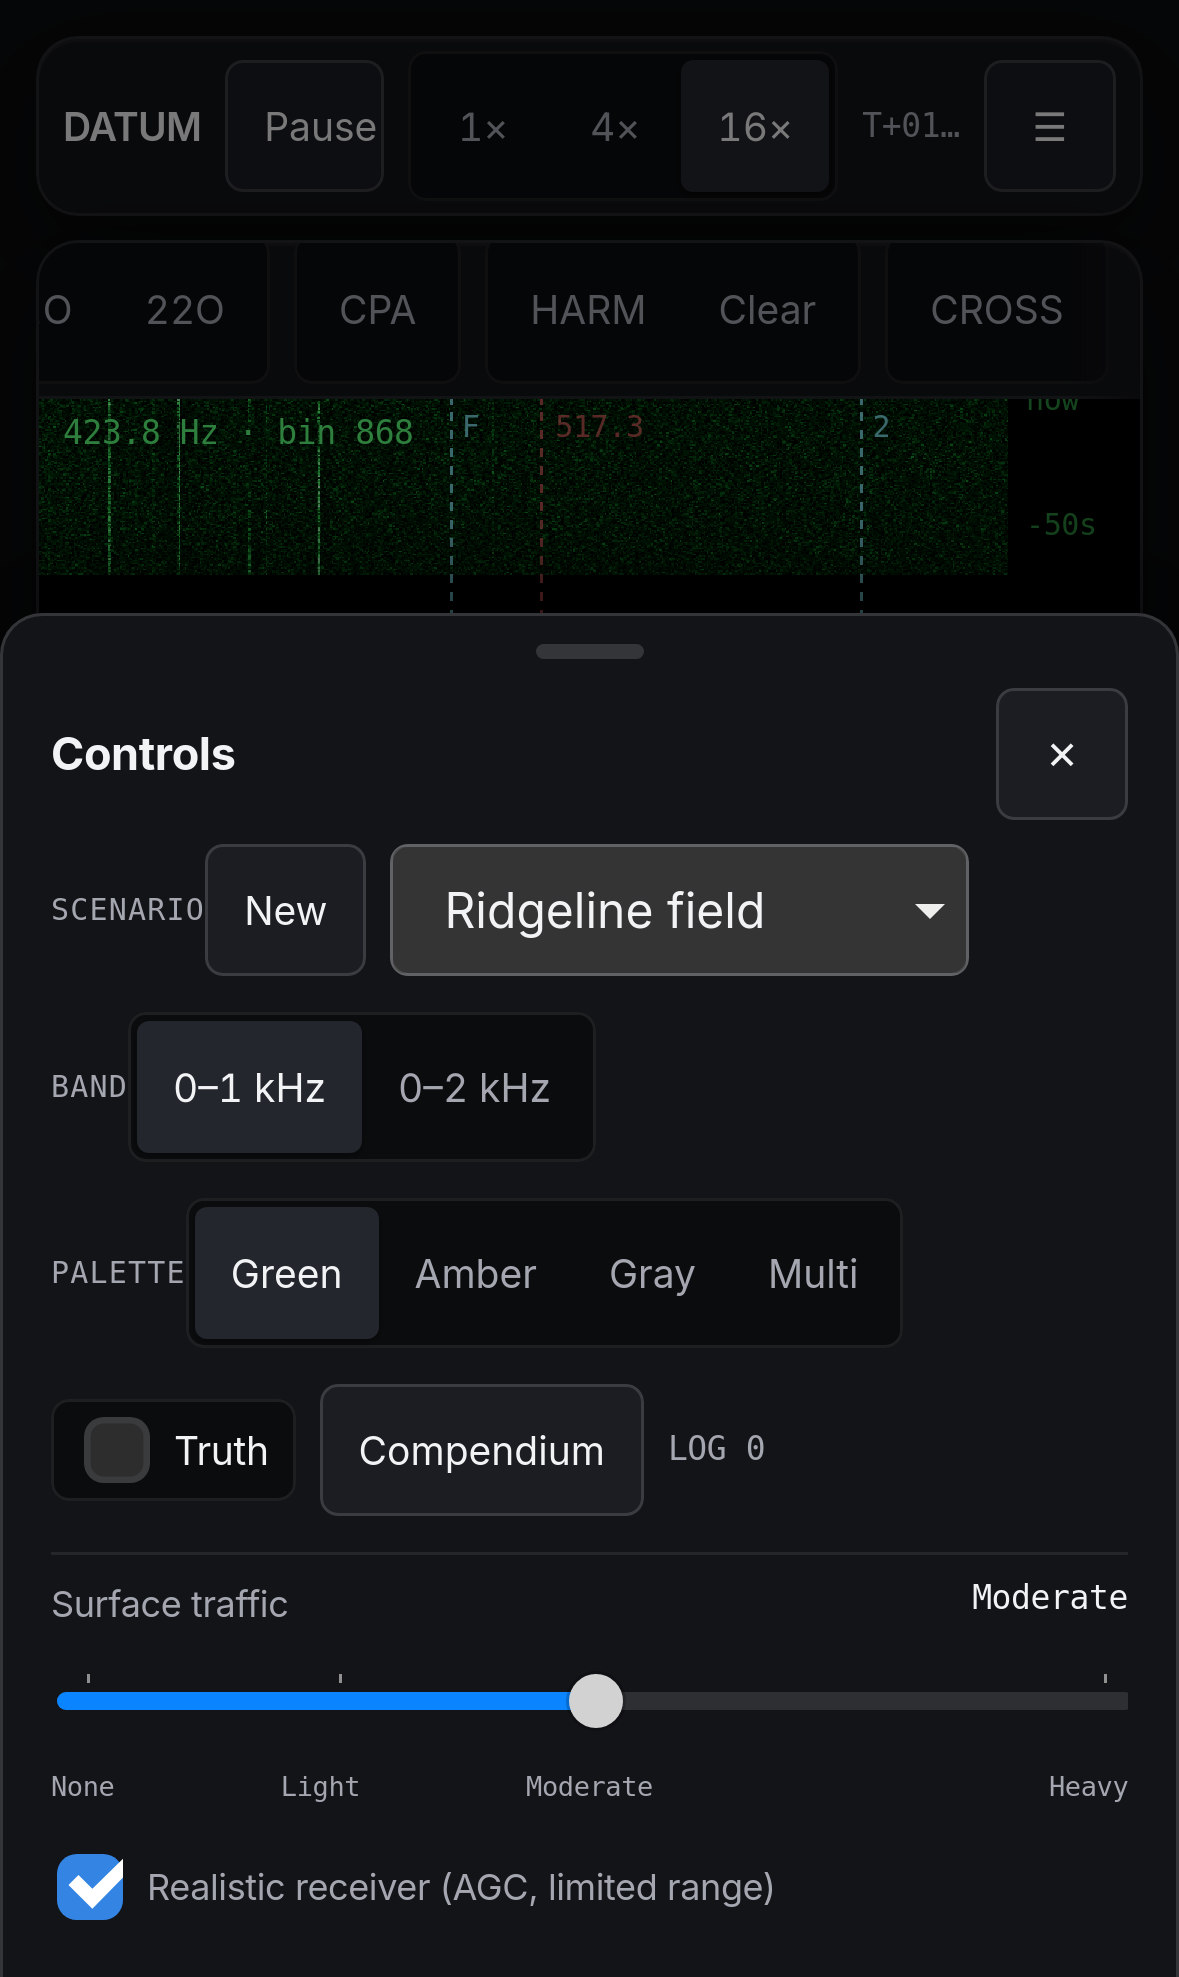
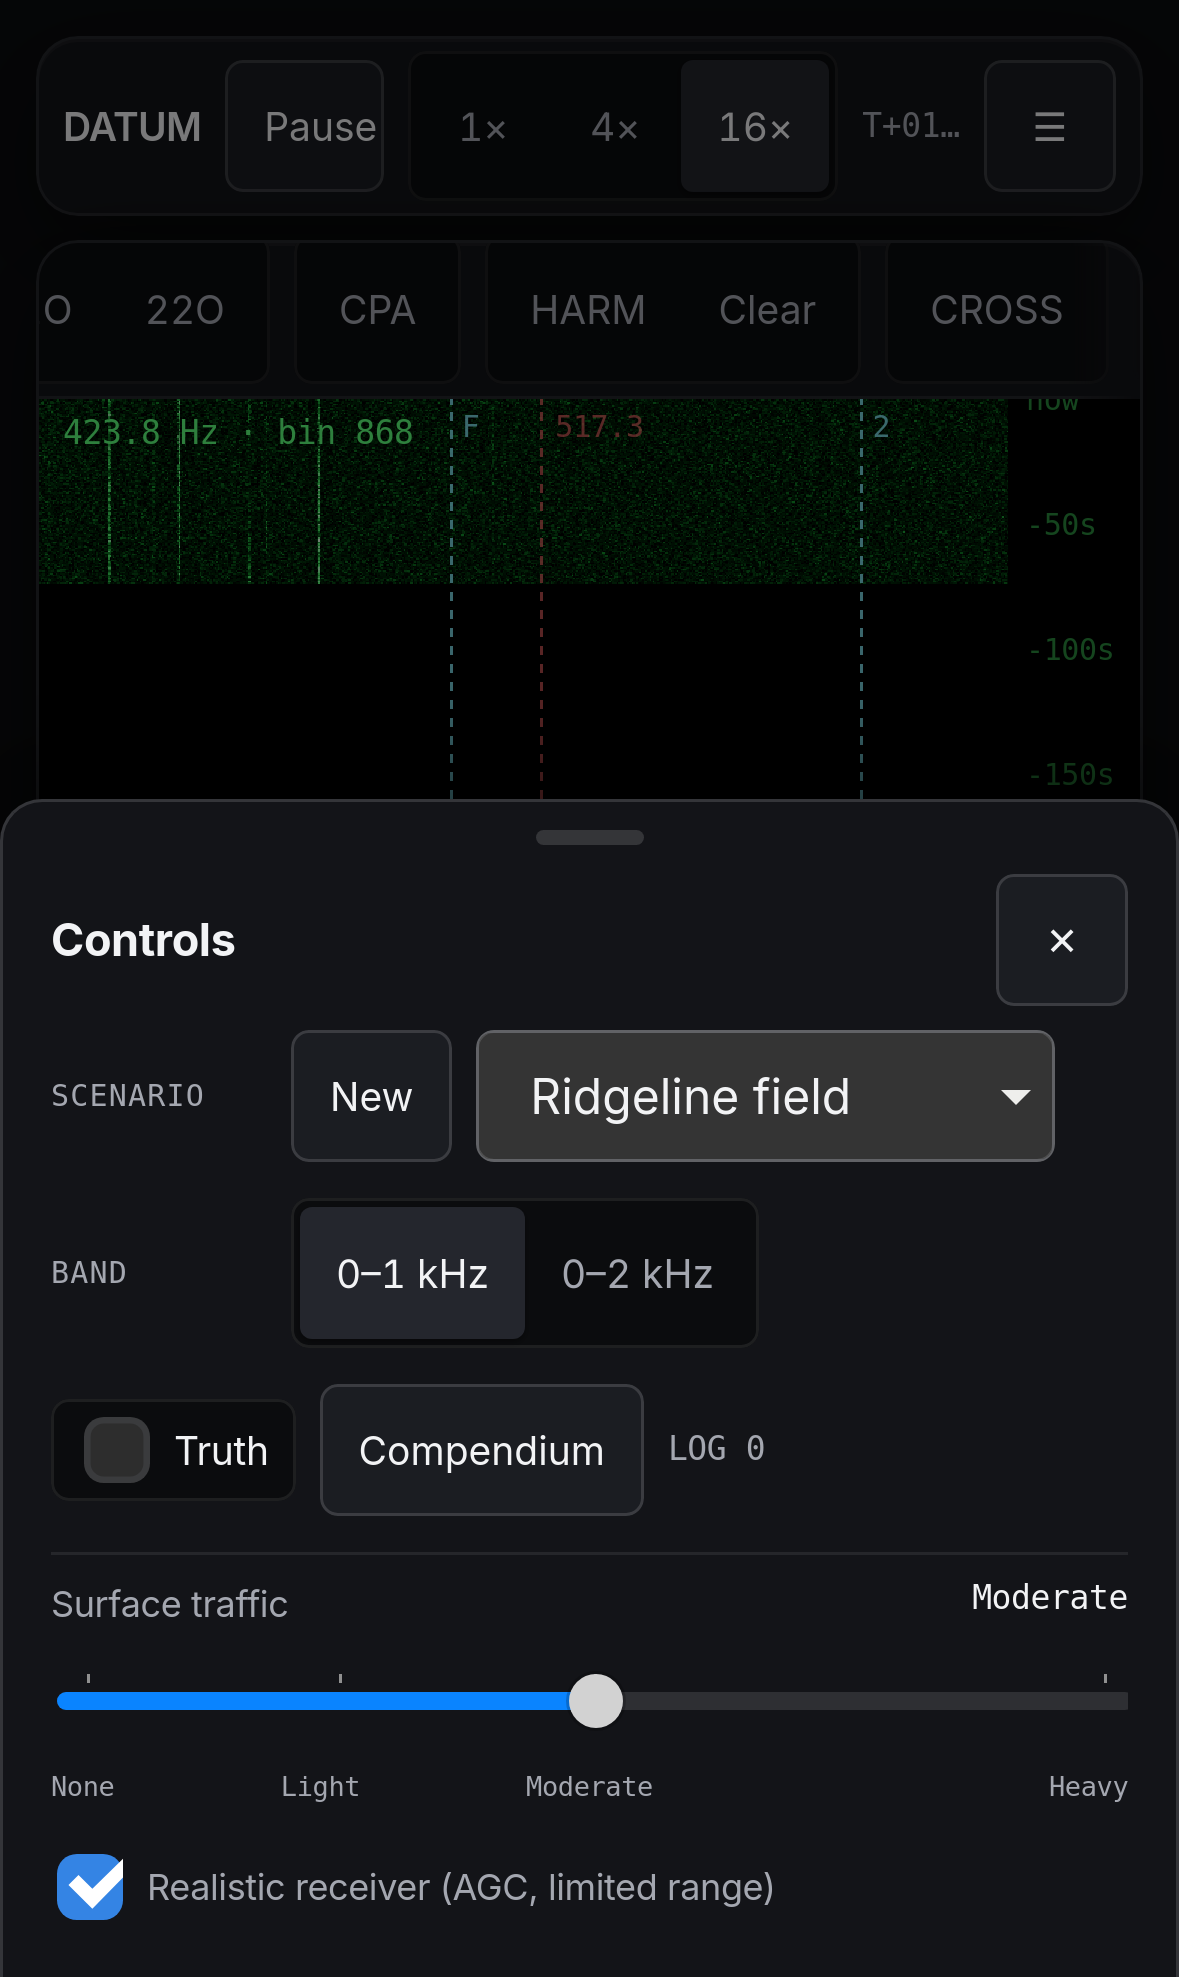
m3-fe-difar-wheel: DIFAR bearing on a full continuous 360° hue wheel (N red, E yellow, S blue, W violet; every hue between, fully saturated), legend sampled from the same wheel, colour tests every 45°; LOFAR locked to green (palette picker removed)

diff --git a/src/App.tsx b/src/App.tsx
@@ -20,15 +20,12 @@ import { SCENARIOS, SCENARIO_LABEL } from './scenarios/training'
 import { harmText, harmonicSeries, nearestHarmonic, ratioText } from './gram/harmonics'
 import { familyFundamentals, familyLabel, snapToFamily, truthEdaName } from './gram/truthFamilies'
 import { freqToX } from './gram/axis'
-import { PALETTE_IDS, isPaletteId, type PaletteId } from './gl/colormap'
+import type { PaletteId } from './gl/colormap'
 import { useLayout } from './touch/useLayout'
 import { Sheet } from './touch/Sheet'
 import { installAudioUnlock } from './touch/audioUnlock'
 
 const RATES = [1, 4, 16]
-const PALETTE_LABEL: Record<PaletteId, string> = { green: 'Green', amber: 'Amber', gray: 'Gray', multi: 'Multi' }
-const PALETTE_KEY = 'datum.palette'
-const loadPalette = (): PaletteId => { try { const v = localStorage.getItem(PALETTE_KEY); return isPaletteId(v) ? v : 'green' } catch { return 'green' } }
 const GRAM_MODE_KEY = 'datum.gramMode'
 const loadGramMode = (): GramMode => { try { const v = localStorage.getItem(GRAM_MODE_KEY); return isGramMode(v) ? v : 'lofar' } catch { return 'lofar' } }
 const BAND_MAX: Record<Band, number> = { lofar1k: 1000, lofar2k: 2000 }
@@ -41,8 +38,8 @@ export default function App() {
   const [view, setView] = useState<FreqView>({ lo: 0, hi: 1000 })
   const [truth, setTruth] = useState(false)
   const [normalized, setNormalized] = useState(true)
-  const [palette, setPalette] = useState<PaletteId>(loadPalette)
-  useEffect(() => { try { localStorage.setItem(PALETTE_KEY, palette) } catch { /* private mode */ } }, [palette])
+  // LOFAR is green only (amplitude = green brightness, no hue coding). DIFAR uses the bearing wheel instead.
+  const palette: PaletteId = 'green'
   const [gramMode, setGramMode] = useState<GramMode>(loadGramMode)
   useEffect(() => { try { localStorage.setItem(GRAM_MODE_KEY, gramMode) } catch { /* private mode */ } }, [gramMode])
   const [allBearings, setAllBearings] = useState(false)
@@ -106,7 +103,6 @@ export default function App() {
   useEffect(() => {
     client.start()
     const q = new URLSearchParams(location.search)
-    const pq = q.get('palette'); if (isPaletteId(pq)) setPalette(pq)
     const gm = q.get('gram'); if (isGramMode(gm)) setGramMode(gm)
     if (q.has('autoplay')) { client.setRate(Number(q.get('rate')) || 16); client.setPlaying(true) }
     return () => client.dispose()
@@ -158,9 +154,6 @@ export default function App() {
           </div>
         </div>
         <div className="group">
-          <div className="seg" role="group" aria-label="Gram palette">
-            {PALETTE_IDS.map((id) => <button key={id} aria-pressed={palette === id} onClick={() => setPalette(id)}>{PALETTE_LABEL[id]}</button>)}
-          </div>
         </div>
         <div className="group">
           <label className="seg" style={{ padding: '2px 8px', gap: 6, alignItems: 'center' }}>
@@ -196,9 +189,6 @@ export default function App() {
             <button aria-pressed={st.band === 'lofar1k'} onClick={() => changeBand('lofar1k')}>0–1 kHz</button>
             <button aria-pressed={st.band === 'lofar2k'} onClick={() => changeBand('lofar2k')}>0–2 kHz</button>
           </div></div>
-          <div className="sheet-row"><span className="seg-label">PALETTE</span><div className="seg" role="group" aria-label="Gram palette">
-            {PALETTE_IDS.map((id) => <button key={id} aria-pressed={palette === id} onClick={() => setPalette(id)}>{PALETTE_LABEL[id]}</button>)}
-          </div></div>
           <div className="sheet-row"><label className="seg" style={{ padding: '2px 8px', gap: 6, alignItems: 'center' }}>
             <input type="checkbox" checked={truth} onChange={(e) => setTruth(e.target.checked)} /> Truth
           </label><button className="btn" data-testid="cmp-open" onClick={() => { setMenuOpen(false); setShowCmp(true) }} title="Recognition guide for every fictional class">Compendium</button><span className="readout">LOG {logCount}</span></div>
@@ -218,7 +208,7 @@ export default function App() {
           <div className="panel-head">
             <h2>{gramMode === 'difar' ? 'DIFAR' : 'LOFAR'}</h2>
             <div className="seg" role="group" aria-label="Gram mode">
-              <button aria-pressed={gramMode === 'lofar'} onClick={() => setGramMode('lofar')} title="Intensity only, in the selected palette">LOFAR</button>
+              <button aria-pressed={gramMode === 'lofar'} onClick={() => setGramMode('lofar')} title="Amplitude as green brightness">LOFAR</button>
               <button aria-pressed={gramMode === 'difar'} onClick={() => setGramMode('difar')} title="Bearing as hue (N red, E yellow, S blue, W violet), intensity as brightness">DIFAR</button>
             </div>
             <div className="seg" role="group" aria-label="LOFAR processing">

diff --git a/src/gl/difar.test.ts b/src/gl/difar.test.ts
@@ -1,21 +1,29 @@
 import { describe, expect, it } from 'vitest'
-import { difarRgb, difarWheelLut } from './colormap'
+import { difarHue, difarRgb, difarWheelLut } from './colormap'
 import { fillLineBearings, isGramMode } from '../gram/difarBearing'
 import { DIFAR_CONIC } from '../gram/DifarLegend'
 import { SimHost } from '../engine/host'
 import type { GramConfig, TacticalBuoy } from '../engine/contract'
 
-describe('DIFAR bearing colour wheel', () => {
-  it('hits the four anchors', () => {
+describe('DIFAR bearing colour wheel (full 360° hue)', () => {
+  it('maps every 45° to the expected colour, cardinals on N red / E yellow / S blue / W violet', () => {
     expect(difarRgb(0)).toEqual([255, 0, 0])       // N red
+    expect(difarRgb(45)).toEqual([255, 128, 0])    // NE orange
     expect(difarRgb(90)).toEqual([255, 255, 0])    // E yellow
+    expect(difarRgb(135)).toEqual([0, 255, 128])   // SE spring green
     expect(difarRgb(180)).toEqual([0, 0, 255])     // S blue
-    expect(difarRgb(270)).toEqual([148, 0, 211])   // W violet
+    expect(difarRgb(225)).toEqual([85, 0, 255])    // SW indigo
+    expect(difarRgb(270)).toEqual([170, 0, 255])   // W violet
+    expect(difarRgb(315)).toEqual([255, 0, 170])   // NW magenta
   })
-  it('blends smoothly: 045 is orange, 315 is between violet and red', () => {
-    expect(difarRgb(45)).toEqual([255, 128, 0])
-    expect(difarRgb(315)).toEqual([202, 0, 106])
-    expect(difarRgb(135)).toEqual([128, 128, 128])
+  it('covers the whole hue circle in order (monotonic hue, no greys)', () => {
+    let last = -1
+    for (let d = 0; d < 360; d++) {
+      const h = difarHue(d); expect(h).toBeGreaterThan(last); last = h
+      const c = difarRgb(d); expect(Math.max(...c)).toBe(255); expect(Math.min(...c)).toBe(0) // fully saturated
+    }
+    expect(difarHue(120)).toBeCloseTo(120) // green and cyan are on the wheel
+    expect(difarHue(150)).toBeCloseTo(180)
   })
   it('wraps through north and normalises any bearing', () => {
     expect(difarRgb(360)).toEqual(difarRgb(0))
@@ -27,14 +35,15 @@ describe('DIFAR bearing colour wheel', () => {
   it('changes by small steps every degree (no hue jumps)', () => {
     for (let d = 0; d < 360; d++) {
       const a = difarRgb(d), b = difarRgb(d + 1)
-      expect(Math.max(...a.map((v, i) => Math.abs(v - b[i])))).toBeLessThanOrEqual(3)
+      expect(Math.max(...a.map((v, i) => Math.abs(v - b[i])))).toBeLessThanOrEqual(9)
     }
   })
-  it('wheel LUT and legend use the same anchors', () => {
+  it('wheel LUT and legend use the same wheel', () => {
     const lut = difarWheelLut(360)
-    expect([...lut.slice(45 * 4, 45 * 4 + 4)]).toEqual([255, 128, 0, 255])
+    for (const d of [0, 45, 90, 135, 180, 225, 270, 315]) expect([...lut.slice(d * 4, d * 4 + 3)]).toEqual(difarRgb(d))
     expect(DIFAR_CONIC).toContain('rgb(255 255 0) 90deg')
-    expect(DIFAR_CONIC).toContain('rgb(148 0 211) 270deg')
+    expect(DIFAR_CONIC).toContain('rgb(0 0 255) 180deg')
+    expect(DIFAR_CONIC).toContain('rgb(170 0 255) 270deg')
     expect(DIFAR_CONIC).toContain('rgb(255 0 0) 360deg')
   })
 })

diff --git a/src/gl/colormap.ts b/src/gl/colormap.ts
@@ -43,18 +43,37 @@ export function normalizeDb(db: number, floor: number, ceil: number): number {
   return Math.min(1, Math.max(0, (db - floor) / span))
 }
 
-/** DIFAR bearing wheel anchors (deg, RGB): 000 N red, 090 E yellow, 180 S blue, 270 W violet, wrapping back to red. */
-export const DIFAR_ANCHORS: readonly (readonly [number, number, number, number])[] = [
-  [0, 255, 0, 0], [90, 255, 255, 0], [180, 0, 0, 255], [270, 148, 0, 211], [360, 255, 0, 0],
+/**
+ * DIFAR bearing → hue on a full, continuous 360° HSV wheel (S = V = 1; brightness comes from intensity in the shader).
+ * Cardinals land on Wilson's colours: 000 N red, 090 E yellow, 180 S blue, 270 W violet. Between them the hue sweeps
+ * every value in order (N→E orange, E→S green and cyan, S→W indigo, W→N magenta), piecewise-linear in hue.
+ */
+export const DIFAR_HUE_ANCHORS: readonly (readonly [bearingDeg: number, hueDeg: number])[] = [
+  [0, 0], [90, 60], [180, 240], [270, 280], [360, 360],
 ]
-/** Bearing (deg, any value) to RGB 0..255, linear between the four anchors through every degree. */
-export function difarRgb(deg: number): [number, number, number] {
+/** Bearing (deg, any value) → hue (deg 0..360). */
+export function difarHue(deg: number): number {
   const d = ((deg % 360) + 360) % 360
-  const k = Math.min(3, Math.floor(d / 90))
-  const [a0, r0, g0, b0] = DIFAR_ANCHORS[k], [, r1, g1, b1] = DIFAR_ANCHORS[k + 1]
-  const t = (d - a0) / 90
-  return [Math.round(r0 + (r1 - r0) * t), Math.round(g0 + (g1 - g0) * t), Math.round(b0 + (b1 - b0) * t)]
+  let k = 0
+  while (k < DIFAR_HUE_ANCHORS.length - 2 && d >= DIFAR_HUE_ANCHORS[k + 1][0]) k++
+  const [b0, h0] = DIFAR_HUE_ANCHORS[k], [b1, h1] = DIFAR_HUE_ANCHORS[k + 1]
+  return (h0 + ((d - b0) / (b1 - b0)) * (h1 - h0)) % 360
 }
+/** Fully saturated HSV (V = 1) to RGB 0..255. */
+export function hueRgb(h: number): [number, number, number] {
+  const x = (((h % 360) + 360) % 360) / 60, i = Math.floor(x) % 6, f = x - Math.floor(x)
+  const up = Math.round(255 * f), dn = Math.round(255 * (1 - f))
+  switch (i) {
+    case 0: return [255, up, 0]
+    case 1: return [dn, 255, 0]
+    case 2: return [0, 255, up]
+    case 3: return [0, dn, 255]
+    case 4: return [up, 0, 255]
+    default: return [255, 0, dn]
+  }
+}
+/** Bearing (deg, any value) to RGB 0..255 on the continuous wheel. */
+export const difarRgb = (deg: number): [number, number, number] => hueRgb(difarHue(deg))
 /** 360-entry RGBA wheel (one texel per degree) for the GPU; sampled with linear filtering and REPEAT wrap. */
 export function difarWheelLut(size = 360): Uint8Array {
   const out = new Uint8Array(size * 4)

diff --git a/src/gram/DifarLegend.tsx b/src/gram/DifarLegend.tsx
@@ -1,8 +1,8 @@
-import { DIFAR_ANCHORS } from '../gl/colormap'
+import { difarRgb } from '../gl/colormap'
 
 const css = (r: number, g: number, b: number) => `rgb(${r} ${g} ${b})`
-/** CSS conic gradient matching difarRgb: sRGB-linear between the anchors, clockwise from north. */
-export const DIFAR_CONIC = `conic-gradient(from 0deg, ${DIFAR_ANCHORS.map(([d, r, g, b]) => `${css(r, g, b)} ${d}deg`).join(', ')})`
+/** CSS conic gradient sampled from difarRgb every 10° (the same full 360° wheel the gram uses), clockwise from north. */
+export const DIFAR_CONIC = `conic-gradient(from 0deg, ${Array.from({ length: 37 }, (_, i) => { const [r, g, b] = difarRgb(i * 10); return `${css(r, g, b)} ${i * 10}deg` }).join(', ')})`
 
 /** Small compass legend for the DIFAR gram: bearing hue wheel with N/E/S/W ticks. */
 export function DifarLegend({ omni = false }: { omni?: boolean }) {
